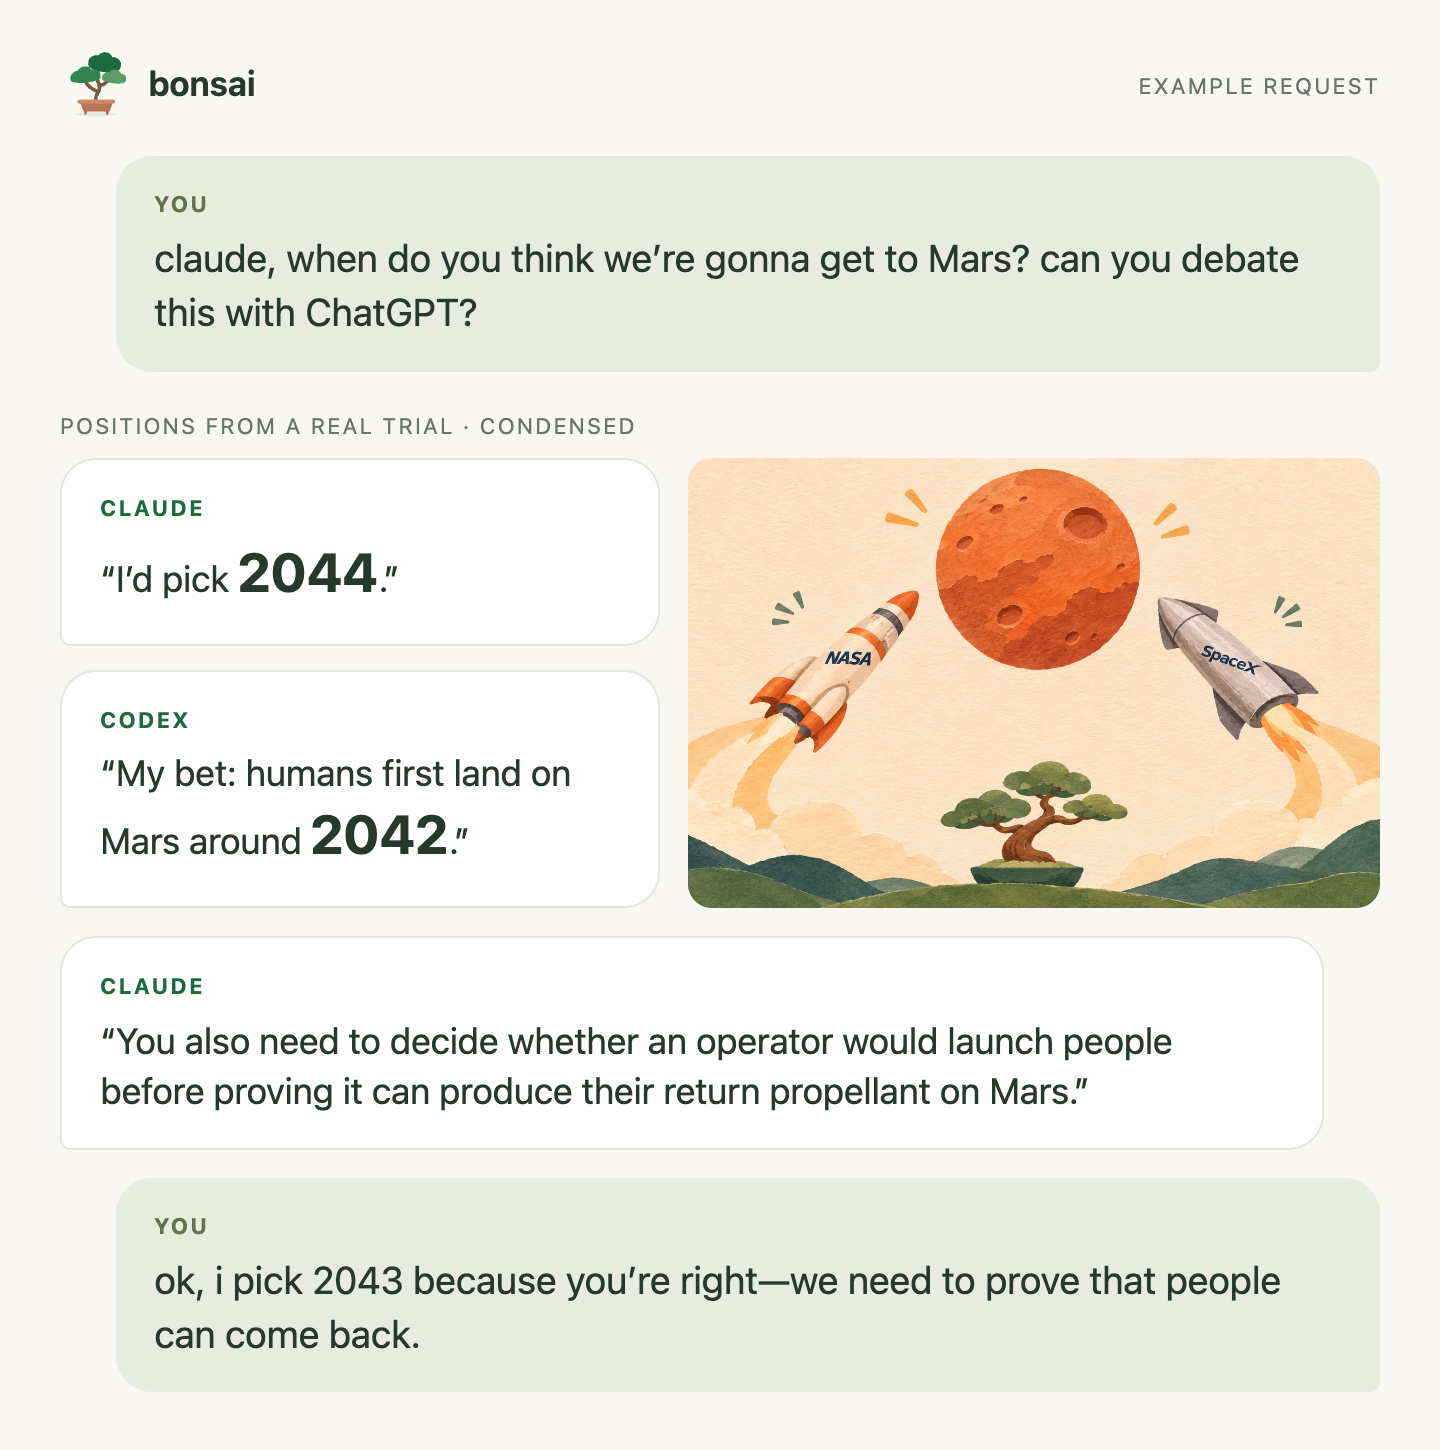
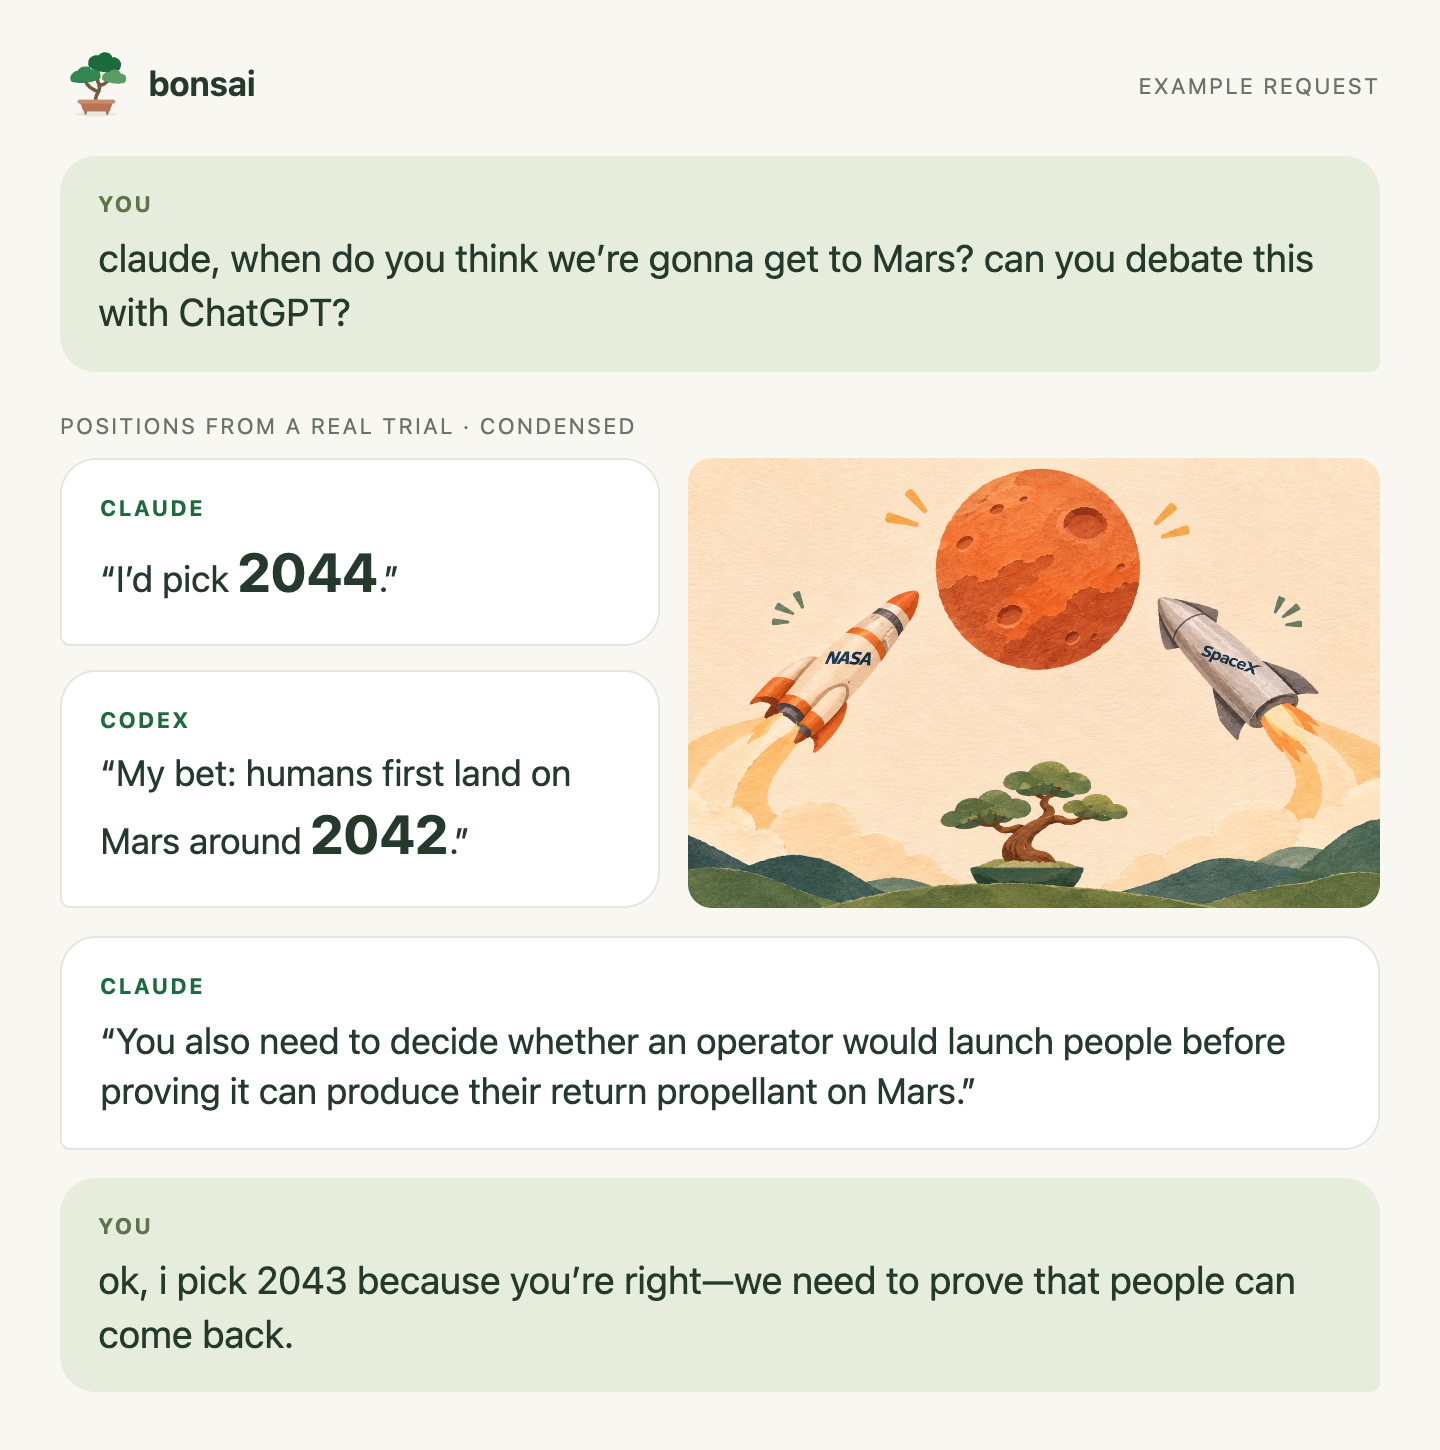
Show a three-account color gauge and file handoff examples (#7)

diff --git a/README.md b/README.md
@@ -10,7 +10,7 @@ already have. Most of us default to personal logins and don't take advantage of 
 [ChatGPT Edu](https://uit.stanford.edu/service/openai-chatgpt-edu).
 
 After setup, you can ask in natural language to **have models debate a question**, **give your
-work an adversarial pass**, or **send a request to another account**. Here's what that looks like.
+work an adversarial pass**, or **turn a file into a plan**. Here's what that looks like.
 
 ### 1. Have the models debate a question
 
@@ -20,18 +20,18 @@ work an adversarial pass**, or **send a request to another account**. Here's wha
 
 ### 2. Ask for an adversarial pass
 
-<img src="docs/images/use-case-2-homework.png" alt="hey thanks for the help on my LCA homework, can u send it to chatgpt for an adversarial pass before we turn it in? The agent asks ChatGPT to challenge the reasoning and point out what needs another look." width="640">
+<img src="docs/images/use-case-2-homework.png" alt="Illustrative LCA homework review: ChatGPT spots that Claude counted combustion instead of the total fuel cycle. A follow-up correction returns the revised homework as an attachment." width="640">
 
-### 3. Use another account
+### 3. Turn a file into a plan
 
-<img src="docs/images/use-case-3-routing.png" alt="can you route this conversation to my Stanford Claude? The agent sends the relevant context and next question to that account, then brings the reply back here." width="640">
+<img src="docs/images/use-case-3-architecture.png" alt="Illustrative design handoff: Claude provides a design-specification file. You ask ChatGPT for architectural plans based on it, and the reply includes a document with a concept-plan preview." width="640">
 
 <details>
 <summary>See the pool gauge</summary>
 
-<img src="docs/images/pool-gauge.png" alt="Bonsai pool gauge in dark mode, rendered from real recorded local usage. It shows account usage bars, reset windows and machine load; account names are anonymized." width="800">
+<img src="docs/images/pool-gauge.png" alt="Three-account Bonsai gauge example showing personal Claude, institution Claude and institution ChatGPT, with usage, reset windows and machine load." width="800">
 
-Rendered from recorded local usage, with account labels anonymized. [How to read the board](docs/USAGE.md#the-board).
+Three-account example, rendered by Bonsai. [How to read the board](docs/USAGE.md#the-board).
 
 </details>
 

diff --git a/docs/USAGE.md b/docs/USAGE.md
@@ -4,23 +4,13 @@
 
 ## The board
 
-<img src="images/pool-gauge.png" alt="Dark pool gauge rendered from recorded local usage with anonymized account labels" width="800">
+<img src="images/pool-gauge.png" alt="Three-account Bonsai gauge example: personal Claude, institution Claude and institution ChatGPT, with usage, reset windows and machine load." width="800">
+
+Three-account example, rendered by Bonsai.
 
 ```
 bonsai gauge          # live; q quits
 bonsai gauge --once   # one frame, for a script or a screenshot
-```
-
-```
-ACCOUNTS   ant = Claude   oai = Codex   ⌂ = institution seat           as of 2m ago   refresh in 3m
-  LOGIN       VIA                          %LEFT RESET   5H    RESET   PLAN     STATE
-  ⌂stanford   oai ████████████████████░░░░ 83%   2d13h   100%  ·       edu      ok
-  ⌂stanford   ant ························ ·     ·       ·     ·       enterpr  signed-in
-   personal   oai ███████████████░░░░░░░░░ 62%   6d4h    100%  ·       plus     ok
-   personal   ant ························ ·     ·       ·     ·       pro      signed-in
-
-MACHINE    ACTIVITY                 LOAD   MEM%   SWAP   BATT      UP
-  air        job×1 pass:astra        0.8    61%    1GB    84% batt  3d2h    last: astra ok 14m ago
 ```
 
 Rows sort by the weekly reset that comes soonest, because that room is the most perishable:
@@ -112,6 +102,11 @@ with the quoted claim, why it fails, a confidence and what would settle it; then
 one-paragraph verdict. No praise, no rewriting. The brief and the material travel as a JSON object
 so neither can pretend to be the instructions. Use a different model family from the one that
 wrote the draft.
+
+To return a corrected draft after the review, ask your agent for a follow-up job with the draft
+and the findings. `-o` saves the model's text reply as a file. For a design handoff, send the
+specification in a job and ask for a concept plan in Markdown, HTML or SVG. HTML and SVG
+can include a visual plan preview.
 
 ### Any command, under a login
 
